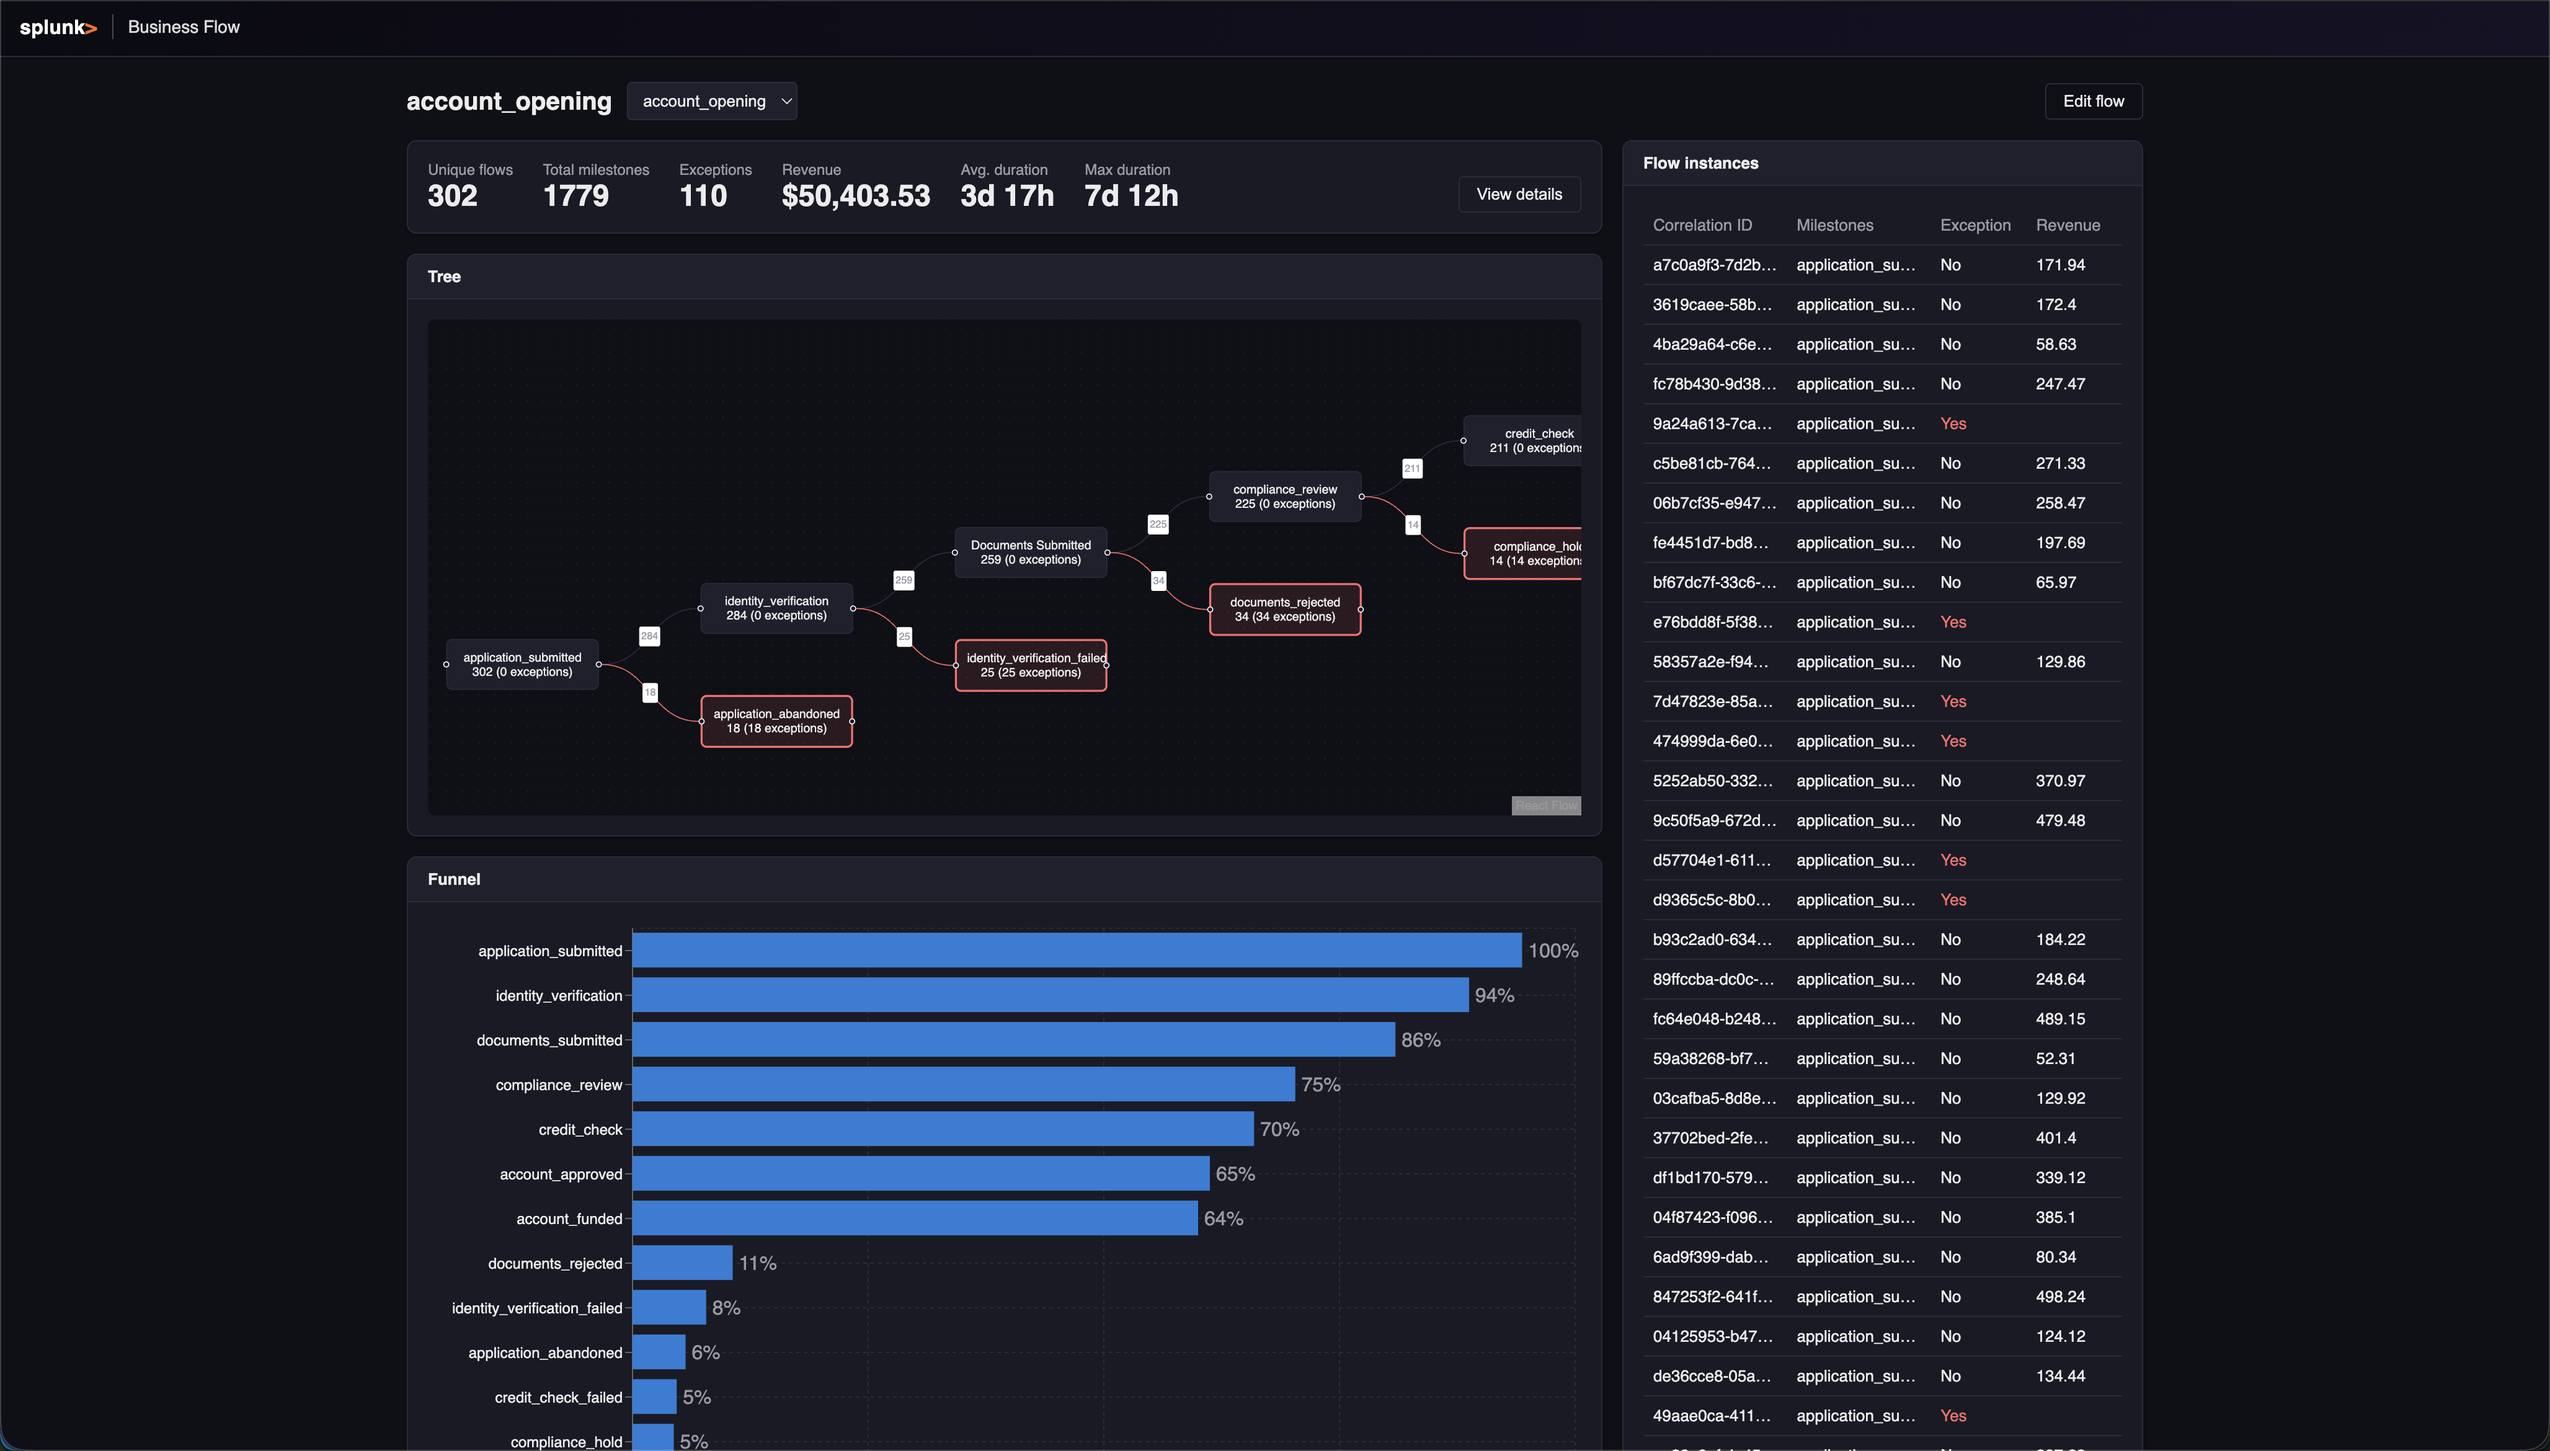
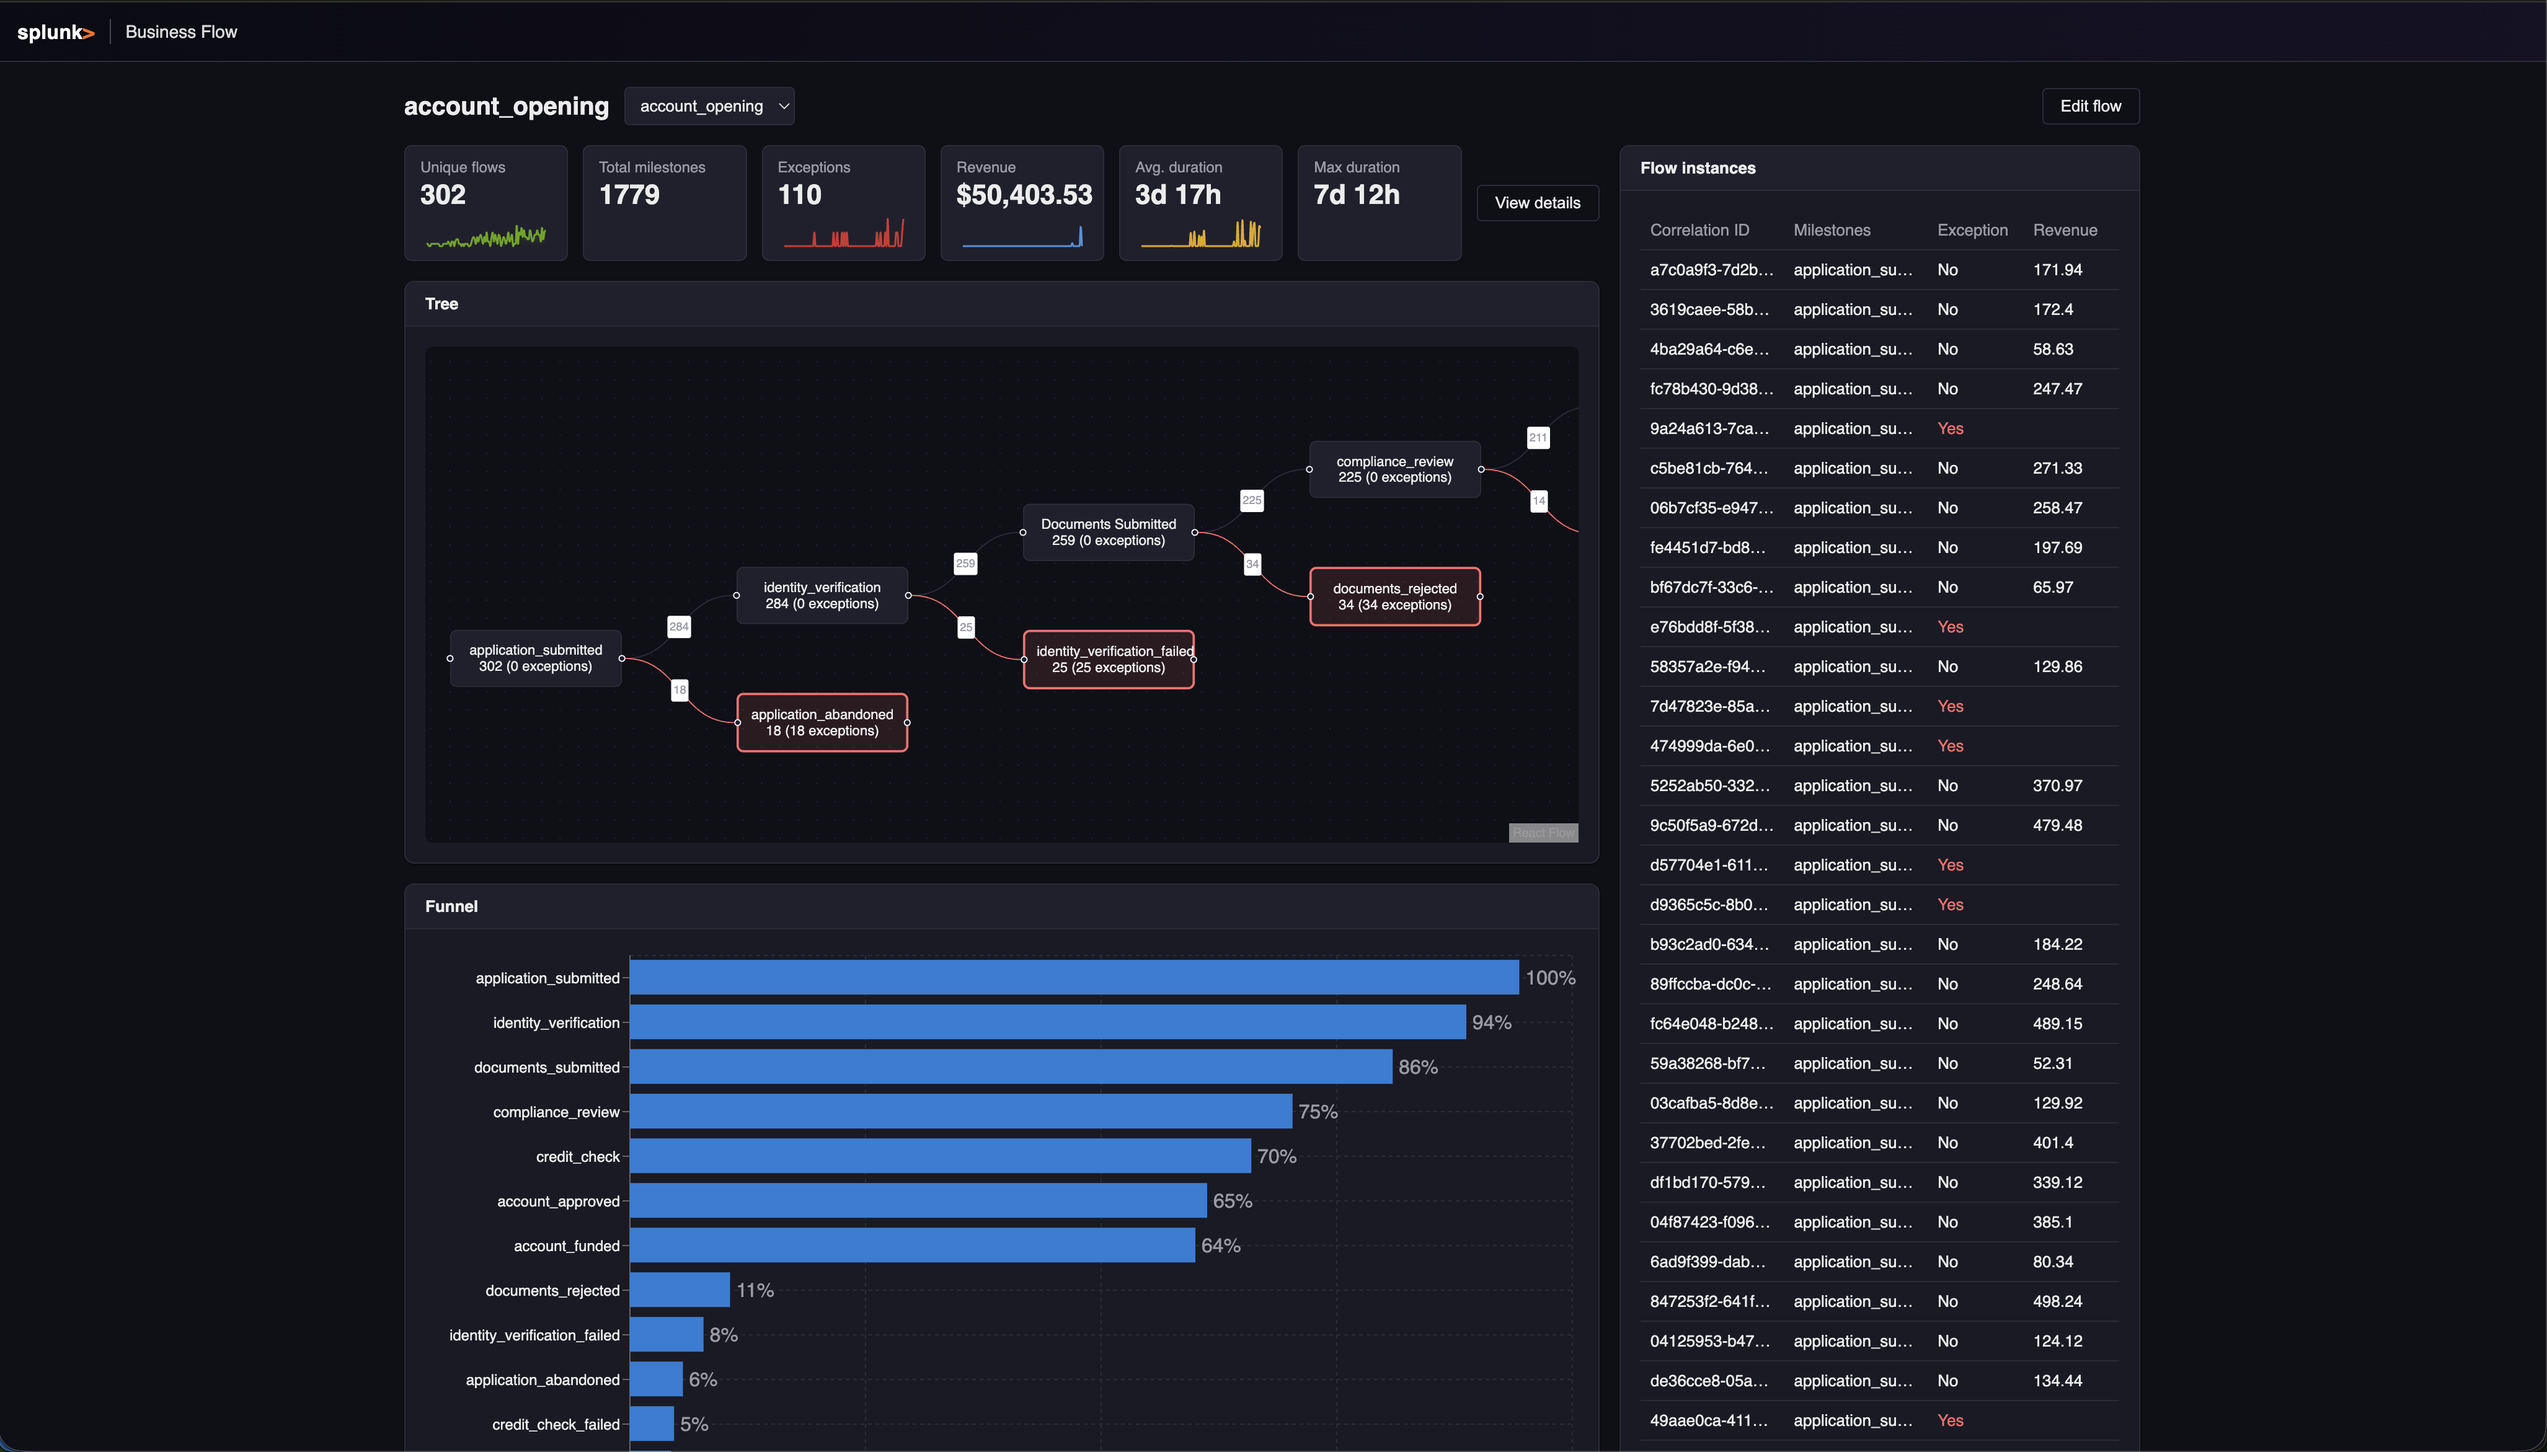
Add Dynatrace-style KPI tiles with sparklines; update README screenshot

diff --git a/frontend/src/components/KpiHeader.tsx b/frontend/src/components/KpiHeader.tsx
@@ -1,4 +1,5 @@
-import type { Durations, Kpis } from "../types";
+import { Area, AreaChart, ResponsiveContainer } from "recharts";
+import type { Durations, KpiTimeseriesPoint, Kpis } from "../types";
 import { colors, secondaryButtonStyle } from "../theme";
 
 function formatDuration(seconds: number | undefined): string {
@@ -11,26 +12,47 @@ function formatDuration(seconds: number | undefined): string {
   return `${m}m`;
 }
 
+interface Tile {
+  label: string;
+  value: string | number;
+  sparkKey?: keyof KpiTimeseriesPoint;
+  color: string;
+}
+
 export function KpiHeader({
   kpis,
   durations,
+  timeseries,
   onViewDetails,
 }: {
   kpis: Kpis | null;
   durations: Durations | null;
+  timeseries: KpiTimeseriesPoint[];
   onViewDetails?: () => void;
 }) {
   if (!kpis) return null;
+
+  const tiles: Tile[] = [
+    { label: "Unique flows", value: kpis.unique_flows, sparkKey: "unique_flows", color: "#65a300" },
+    { label: "Total milestones", value: kpis.total_milestones, color: colors.accent },
+    { label: "Exceptions", value: kpis.exceptions, sparkKey: "exceptions", color: "#d32f2f" },
+    { label: "Revenue", value: `$${kpis.revenue?.toLocaleString() ?? 0}`, sparkKey: "revenue", color: "#4a90d9" },
+    {
+      label: "Avg. duration",
+      value: formatDuration(durations?.avg_duration_sec),
+      sparkKey: "avg_duration_sec",
+      color: "#e0a800",
+    },
+    { label: "Max duration", value: formatDuration(durations?.max_duration_sec), color: colors.textMuted },
+  ];
+
   return (
-    <div style={{ display: "flex", gap: 24, alignItems: "flex-end" }}>
-      <Stat label="Unique flows" value={kpis.unique_flows} />
-      <Stat label="Total milestones" value={kpis.total_milestones} />
-      <Stat label="Exceptions" value={kpis.exceptions} />
-      <Stat label="Revenue" value={`$${kpis.revenue?.toLocaleString() ?? 0}`} />
-      <Stat label="Avg. duration" value={formatDuration(durations?.avg_duration_sec)} />
-      <Stat label="Max duration" value={formatDuration(durations?.max_duration_sec)} />
+    <div style={{ display: "flex", gap: 12, alignItems: "stretch" }}>
+      {tiles.map((t) => (
+        <KpiTile key={t.label} tile={t} timeseries={timeseries} />
+      ))}
       {onViewDetails && (
-        <button onClick={onViewDetails} style={{ ...secondaryButtonStyle, marginLeft: "auto" }}>
+        <button onClick={onViewDetails} style={{ ...secondaryButtonStyle, alignSelf: "center", marginLeft: "auto" }}>
           View details
         </button>
       )}
@@ -38,11 +60,46 @@ export function KpiHeader({
   );
 }
 
-function Stat({ label, value }: { label: string; value: number | string }) {
+function KpiTile({ tile, timeseries }: { tile: Tile; timeseries: KpiTimeseriesPoint[] }) {
+  const gradientId = `spark-${String(tile.sparkKey)}`;
   return (
-    <div>
-      <div style={{ fontSize: 12, color: colors.textMuted }}>{label}</div>
-      <div style={{ fontSize: 24, fontWeight: 600, color: colors.textPrimary }}>{value}</div>
+    <div
+      style={{
+        flex: 1,
+        minWidth: 130,
+        border: `1px solid ${colors.border}`,
+        borderRadius: 6,
+        padding: "10px 12px 6px",
+        background: colors.cardBgAlt,
+        display: "flex",
+        flexDirection: "column",
+      }}
+    >
+      <div style={{ fontSize: 12, color: colors.textMuted }}>{tile.label}</div>
+      <div style={{ fontSize: 22, fontWeight: 600, color: colors.textPrimary, margin: "2px 0" }}>{tile.value}</div>
+      <div style={{ height: 32, marginTop: "auto" }}>
+        {tile.sparkKey && timeseries.length > 1 && (
+          <ResponsiveContainer width="100%" height="100%">
+            <AreaChart data={timeseries}>
+              <defs>
+                <linearGradient id={gradientId} x1="0" y1="0" x2="0" y2="1">
+                  <stop offset="0%" stopColor={tile.color} stopOpacity={0.4} />
+                  <stop offset="100%" stopColor={tile.color} stopOpacity={0} />
+                </linearGradient>
+              </defs>
+              <Area
+                type="monotone"
+                dataKey={tile.sparkKey}
+                stroke={tile.color}
+                fill={`url(#${gradientId})`}
+                strokeWidth={1.5}
+                dot={false}
+                isAnimationActive={false}
+              />
+            </AreaChart>
+          </ResponsiveContainer>
+        )}
+      </div>
     </div>
   );
 }

diff --git a/frontend/src/App.tsx b/frontend/src/App.tsx
@@ -58,6 +58,7 @@ export default function App() {
       api.funnel(process).then((r) => setFunnel(r as unknown as FunnelStep[])),
       api.instances(process).then((r) => setInstances(r as unknown as Instance[])),
       api.definition(process).then((r) => setDefinition(r as unknown as FlowDefinition)),
+      api.kpiTimeseries(process).then((r) => setKpiTimeseries(r as unknown as KpiTimeseriesPoint[])),
     ]).then((results) => {
       const failed = results.filter((r) => r.status === "rejected") as PromiseRejectedResult[];
       if (failed.length) {
@@ -93,7 +94,6 @@ export default function App() {
 
   const handleViewDetails = () => {
     setShowKpiDetails(true);
-    api.kpiTimeseries(process).then((r) => setKpiTimeseries(r as unknown as KpiTimeseriesPoint[]));
   };
 
   const filteredInstances = useMemo(
@@ -147,9 +147,7 @@ export default function App() {
 
         <div style={{ display: "grid", gridTemplateColumns: "1fr 420px", gap: 16, alignItems: "start" }}>
           <div style={{ display: "flex", flexDirection: "column", gap: 16, minWidth: 0 }}>
-            <Card>
-              <KpiHeader kpis={kpis} durations={durations} onViewDetails={handleViewDetails} />
-            </Card>
+            <KpiHeader kpis={kpis} durations={durations} timeseries={kpiTimeseries} onViewDetails={handleViewDetails} />
 
             <Card title="Tree">
               <TreeView
